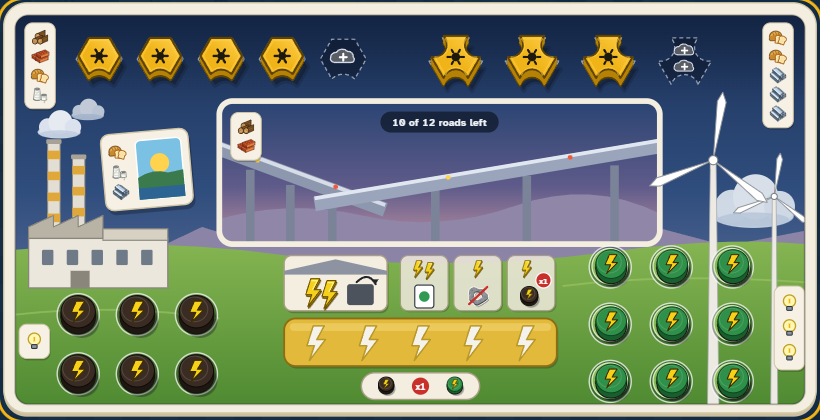
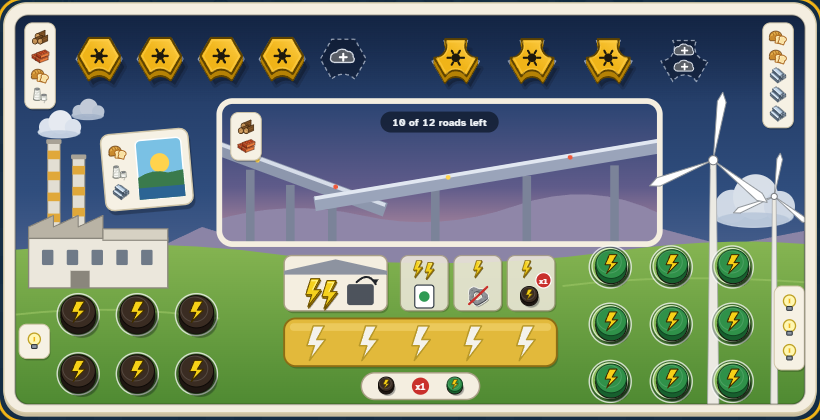
fix(ui): restore long roads and make the city slightly smaller instead
Roads go back to their original length (ROAD_LENGTH = 29). To keep a city
from covering a road end in either direction, the city is now a little
smaller: body apothem 13 -> 11.5 and wall 5 -> 4, so CITY_REACH is 13.5,
exactly where a road begins. The notches still hold the power plants.
piece-fit.test.ts keeps the two in step.

Changed region(s): [[0.5183, 0.0619, 0.8841, 0.2167], [0.8232, 0.0929, 0.8537, 0.1238]]

diff --git a/src/ui/theme.ts b/src/ui/theme.ts
@@ -409,10 +409,10 @@ export const ISLAND_SCALE = 1.17;
 
 /**
  * Wooden road length along its path. Paths are HEX_RADIUS long, so the road is centred with
- * (HEX_RADIUS - ROAD_LENGTH) / 2 left free at each end: just enough that a City (the widest piece)
- * sits against the road end without covering it, in every direction.
+ * (HEX_RADIUS - ROAD_LENGTH) / 2 left free at each end. A City is sized (CITY_REACH) to end exactly
+ * where the road begins, so it sits against a road end without covering it, in every direction.
  */
-export const ROAD_LENGTH = 25;
+export const ROAD_LENGTH = 29;
 export const ISLAND_TRANSFORM = `translate(${500 * (1 - ISLAND_SCALE)}, ${500 * (1 - ISLAND_SCALE)}) scale(${ISLAND_SCALE})`;
 
 /**

diff --git a/src/ui/WoodenPiecesSvg.tsx b/src/ui/WoodenPiecesSvg.tsx
@@ -105,10 +105,10 @@ export const PLANT_SOCKET_DIST = 15.5;
 export const PLANT_RADIUS = 7;
 
 const TOWN_RADIUS = 11.5;
-const CITY_APOTHEM = 13;
+const CITY_APOTHEM = 11.5;
 /** Thickness of the wooden pieces, in board units (drawn downward as the side wall). */
 export const TOWN_DEPTH = 3.5;
-export const CITY_DEPTH = 5;
+export const CITY_DEPTH = 4;
 
 /**
  * How far a Town / City reaches from its intersection toward a road, in board units. The piece is
